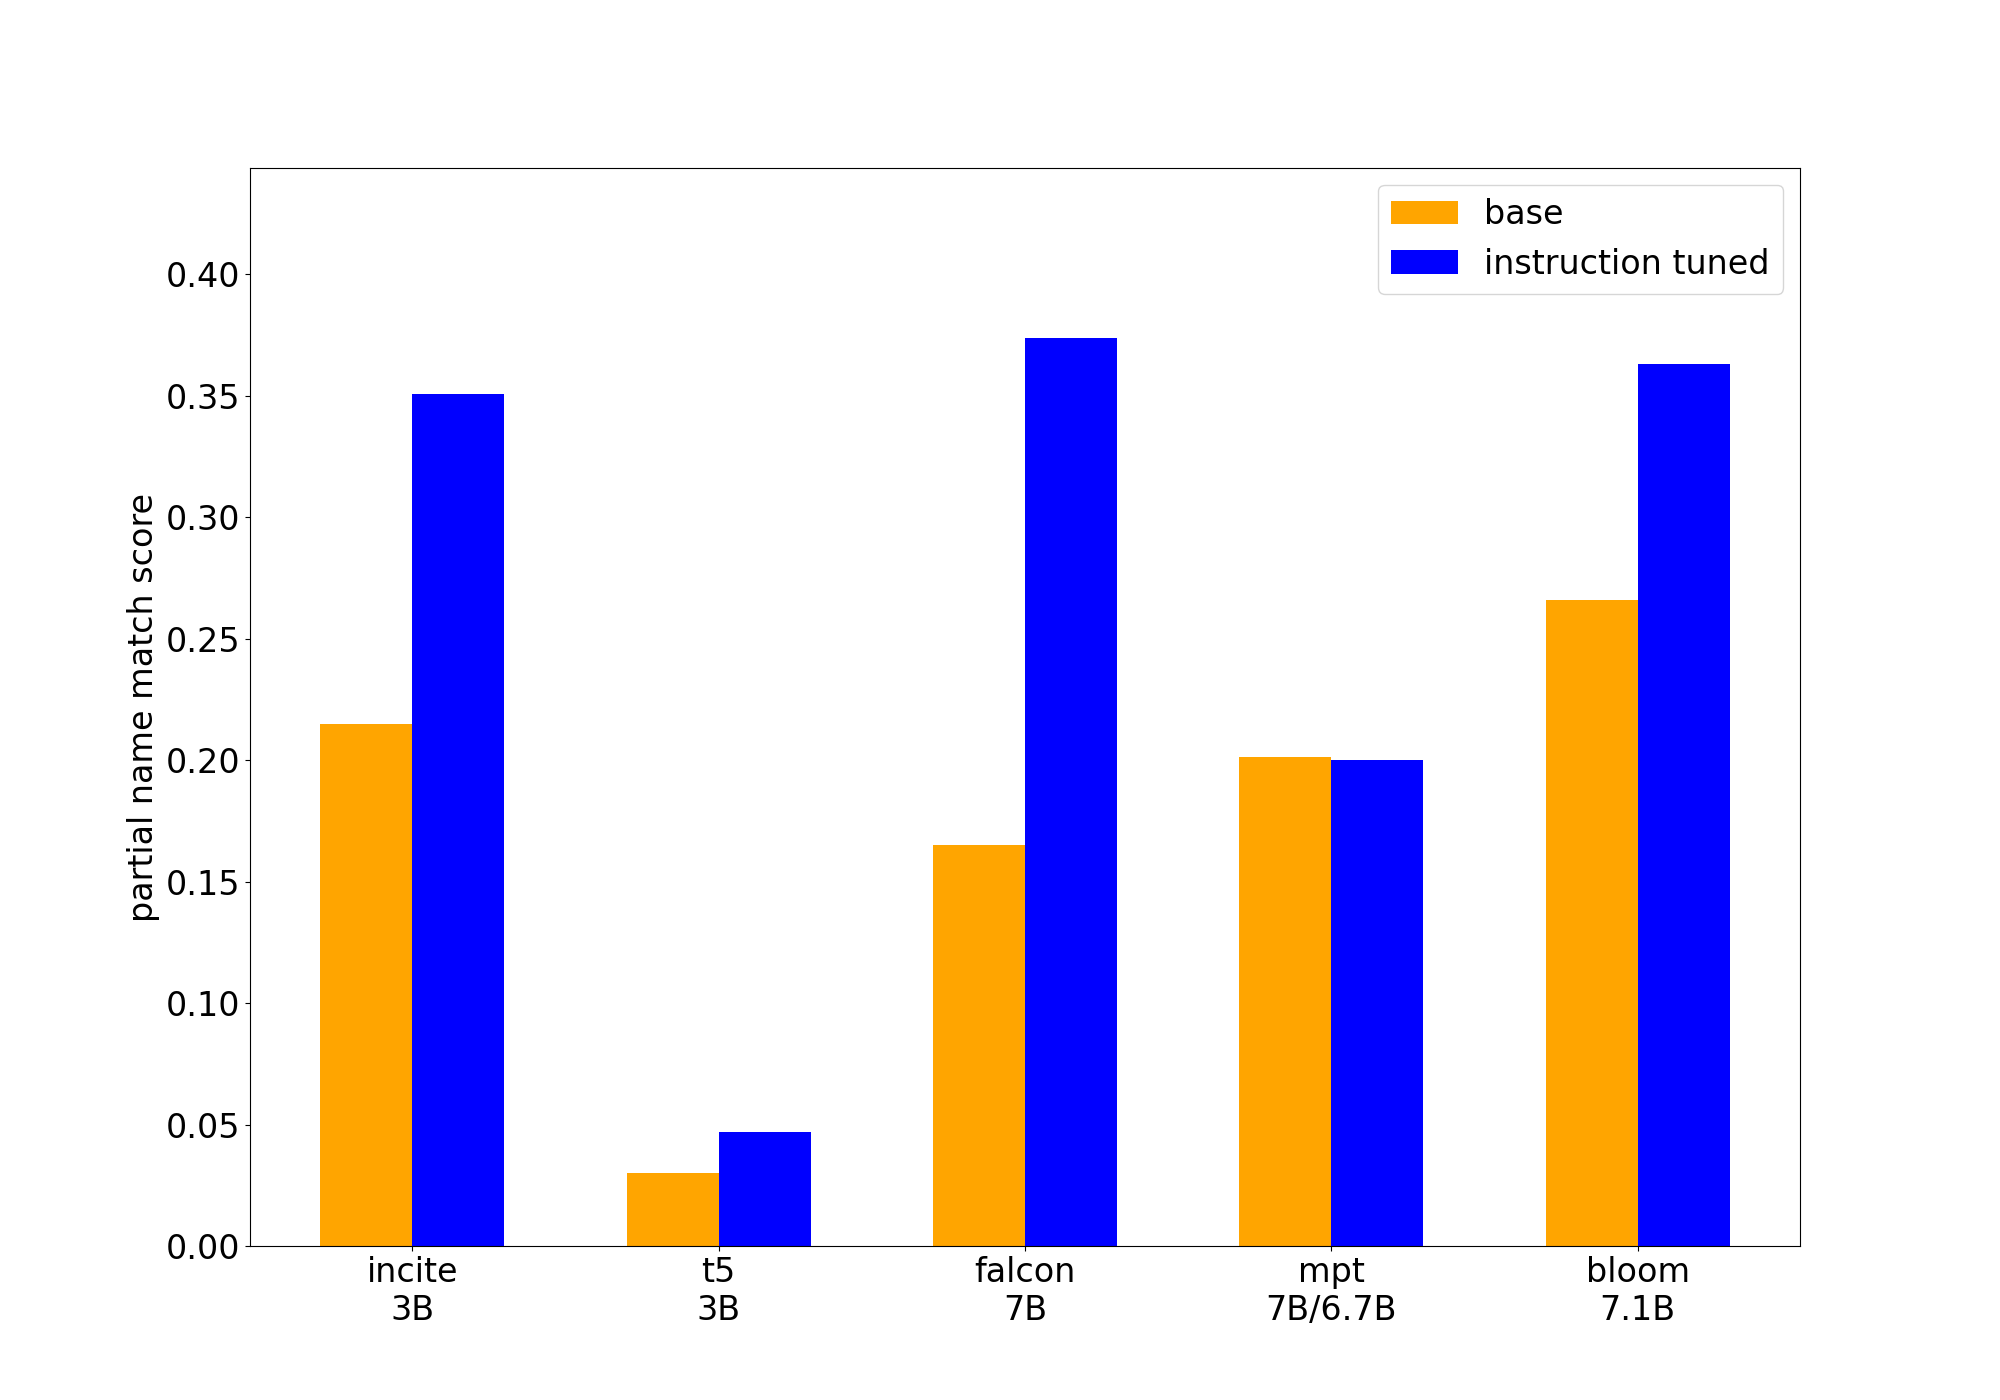
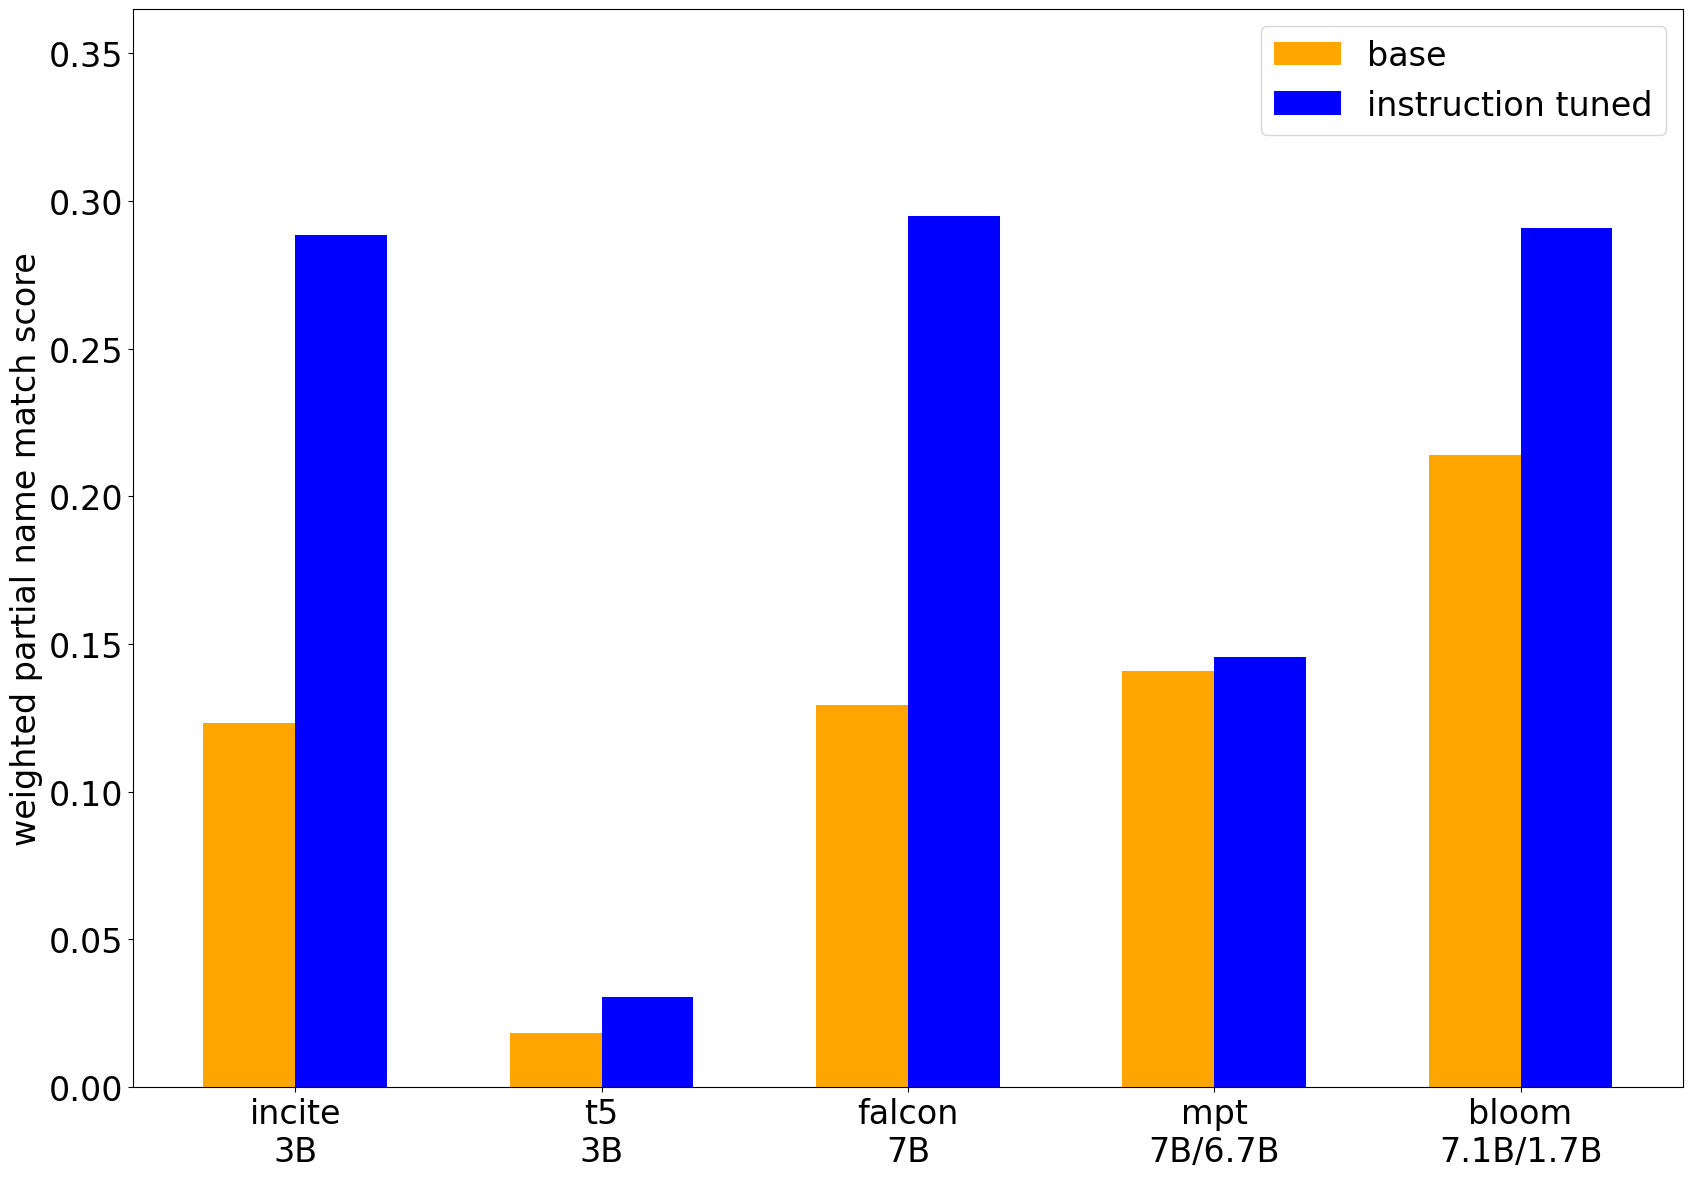
update plots to use weighted PNMS

diff --git a/wiki_poc/evaluation/plotting/precomputed_plotting.py b/wiki_poc/evaluation/plotting/precomputed_plotting.py
@@ -35,7 +35,7 @@ class PrecomputedPlotting():
         prepared_df = self.convert_to_df(self.results)
         # self.plot_normal_to_instructional(self.results, prepared_df)
         # self.plot_normal_to_instructional_barplot(self.results, prepared_df)
-        # self.plot_accuracy_progression(self.results, prepared_df)
+        self.plot_accuracy_progression(self.results, prepared_df)
         # self.plot_best_performers(self.results, prepared_df)
         # self.plot_with_huge(self.results, prepared_df)
         # self.plot_accuracy_overview(self.results)
@@ -45,7 +45,7 @@ class PrecomputedPlotting():
         # self.sampling_method_comparison(self.results, prepared_df)
         # self.plot_accuracy_overview_with_legend_and_size(self.results, prepared_df)
         # self.plot_model_types_comparison(self.results, prepared_df)
-        self.plot_model_types_comparison_scatter(self.results, prepared_df)
+        # self.plot_model_types_comparison_scatter(self.results, prepared_df)
         # self.tabulate_results_to_latex(self.results)
 
     @staticmethod
@@ -143,6 +143,10 @@ class PrecomputedPlotting():
         # remove all models that are not in the interesting models list
         df2 = df2[df2['model_class'].isin(interesting_models)]
 
+        # remove any models above 20 billion parameters, as they are not interesting because
+        # they pull apart the plot too much
+        df2 = df2[df2['size'] < 20]
+
         # group it
         grouped_data = df2.groupby('model_class').apply(lambda x: x.sort_values('size')).reset_index(drop=True)
 
@@ -151,16 +155,16 @@ class PrecomputedPlotting():
         color_palette = sns.color_palette('tab10', n_colors=len(unique_groups))
 
         # scatter points
-        sns.scatterplot(data=grouped_data, x='size', y='accuracy', hue='model_class', s=250, markers=True, legend=False)
+        sns.scatterplot(data=grouped_data, x='size', y='weighted_score', hue='model_class', s=250, markers=True, legend=False)
 
         # Plot separate lines for each group with corresponding colors
         for group, color in zip(unique_groups, color_palette):
             group_data = grouped_data[grouped_data['model_class'] == group]
-            plt.plot(group_data['size'], group_data['accuracy'], color=color, label=group, linewidth=3)
+            plt.plot(group_data['size'], group_data['weighted_score'], color=color, label=group, linewidth=3)
 
         # Set labels and title
         plt.xlabel("size [billion parameters]", fontsize=my_font_size)
-        plt.ylabel("partial name match score", fontsize=my_font_size)
+        plt.ylabel("weighted partial name match score", fontsize=my_font_size)
 
         # Increase font size of tick labels
         plt.xticks(fontsize=my_font_size)
@@ -173,7 +177,7 @@ class PrecomputedPlotting():
             line.set_linewidth(6)
 
         plt.grid(True)
-        plt.savefig(f"evaluation/plotting/plots/ablations/plot_accuracy_progression_{results['key']}.png") # , bbox_inches='tight')
+        plt.savefig(f"evaluation/plotting/plots/ablations/plot_accuracy_progression_{results['key']}.png", bbox_inches='tight')
         # ensure pyplot does not run out of memory when too many plots are created
         plt.close()
 
@@ -450,7 +454,7 @@ class PrecomputedPlotting():
         plt.legend(fontsize="x-large")
         plt.xlabel('model size [million parameters]', fontsize="x-large")
         plt.ylabel('weighted partial name match score', fontsize="x-large")
-        plt.title('Model Performance by Type')
+        plt.title('Model Performance by Type', fontsize="x-large")
         plt.savefig(f"evaluation/plotting/plots/ablations/plot_model_types_comparison_scatter_{results['key']}.png")
 
 
@@ -557,11 +561,13 @@ class PrecomputedPlotting():
         # expect the following models
         models = ["falcon", "roberta", "distilbert", "mpt", "incite", "t5"]
 
+        print("at least here")
+
         df2["is_instructional"] = df2["model_class"].apply(
             lambda x: "instruction tuned" if ("squad" in x or "flan" in x or "instruct" in x) else "base")
 
         my_font_size = 24
-        sns.scatterplot(data=df2, x="size", y="accuracy", hue="is_instructional", s=350, markers=True)
+        sns.scatterplot(data=df2, x="size", y="weighted_score", hue="is_instructional", s=350, markers=True)
 
         for i, row in df2.iterrows():
             label_length = len(row['model'])
@@ -571,7 +577,7 @@ class PrecomputedPlotting():
             # small hack for gptj, to make it fit as well
             else:
                 mv_left = 12
-            plt.annotate(row['model_class'], (row['size'], row['accuracy']), xytext=(mv_left, -7), textcoords='offset points',
+            plt.annotate(row['model_class'], (row['size'], row['weighted_score']), xytext=(mv_left, -7), textcoords='offset points',
                          fontsize=my_font_size)
 
         grouped_data = df2.groupby(df2["model"].str.extract(f"({'|'.join(models)})")[0])
@@ -582,8 +588,8 @@ class PrecomputedPlotting():
             sorted_data = group_data.sort_values('is_instructional')
             
             # Extract the x and y values for the two points
-            x1, y1 = sorted_data.iloc[0]['size'], sorted_data.iloc[0]['accuracy']
-            x2, y2 = sorted_data.iloc[1]['size'], sorted_data.iloc[1]['accuracy']
+            x1, y1 = sorted_data.iloc[0]['size'], sorted_data.iloc[0]['weighted_score']
+            x2, y2 = sorted_data.iloc[1]['size'], sorted_data.iloc[1]['weighted_score']
             
             # padding to not overlap labels
             padding = 0.004
@@ -616,7 +622,7 @@ class PrecomputedPlotting():
                    markerscale=3.5, framealpha=1)
         # plt.grid(True)
 
-        plt.savefig(f"evaluation/plotting/plots/ablations/plot_normal_to_instructional_{results['key']}.png")
+        plt.savefig(f"evaluation/plotting/plots/ablations/plot_normal_to_instructional_{results['key']}.png", bbox_inches='tight')
 
     @staticmethod
     def plot_normal_to_instructional_barplot(results, df):
@@ -639,7 +645,7 @@ class PrecomputedPlotting():
         # Prepare data for plot
         plot_data = []
         for name, group in grouped:
-            plot_data.append((name[0], name[1], group['accuracy'].mean()))
+            plot_data.append((name[0], name[1], group['weighted_score'].mean()))
 
         # Sort data by model name
         plot_data.sort()
@@ -687,7 +693,7 @@ class PrecomputedPlotting():
         plt.bar(bar_l + bar_width, instruction_accuracies, width=bar_width, label='instruction tuned', color='blue')
 
         # Set the labels and title
-        plt.ylabel('partial name match score', fontsize=my_font_size)
+        plt.ylabel('weighted partial name match score', fontsize=my_font_size)
 
         # Set the positions and labels of the x-axis ticks
         plt.xticks(tick_pos, unique_names_with_size)
@@ -703,7 +709,7 @@ class PrecomputedPlotting():
         plt.xticks(fontsize=my_font_size)
         plt.yticks(fontsize=my_font_size)
 
-        plt.savefig(f"evaluation/plotting/plots/plot_normal_to_instructional_barplot_{results['key']}.png")
+        plt.savefig(f"evaluation/plotting/plots/ablations/plot_normal_to_instructional_barplot_{results['key']}.png", bbox_inches='tight')
 
     @staticmethod
     def plot_accuracy_input_size_comparison(results, df2):
